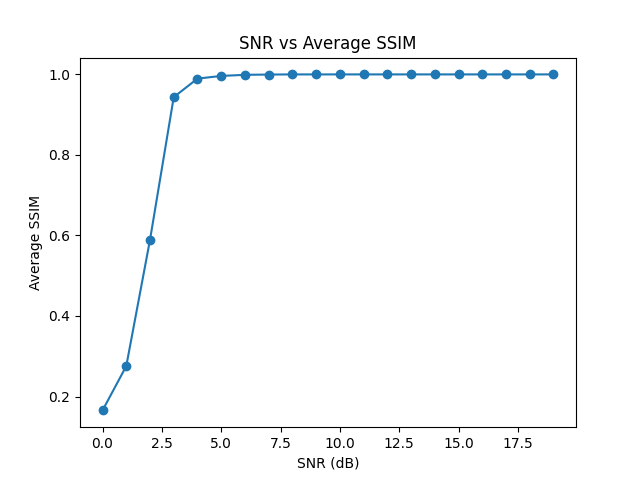
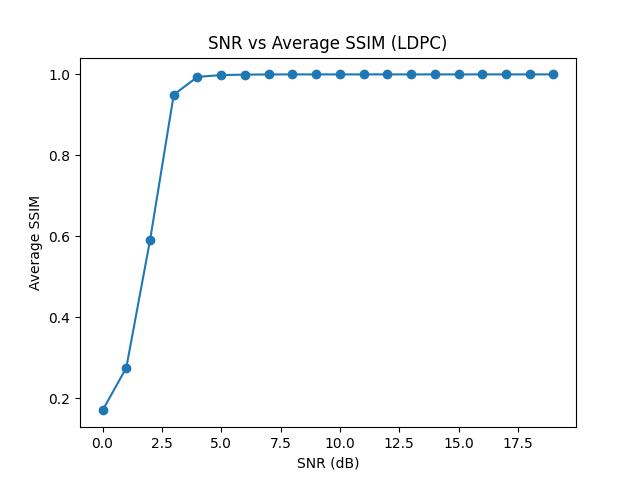
Read

diff --git a/eval.py b/eval.py
@@ -74,7 +74,7 @@ def main():
     plt.plot(x, y, marker='o')
     plt.xlabel("SNR (dB)")
     plt.ylabel("Average SSIM")
-    plt.title("SNR vs Average SSIM")
+    plt.title("SNR vs Average SSIM (LDPC)")
     plt.savefig("snr_vs_ssim_LDPC.png")
     plt.show()
     

diff --git a/README.md b/README.md
@@ -61,7 +61,7 @@ The image by LDPC .
 
 ## Result
 ![Result](./snr_vs_ssim.png)
-
+![Result](./snr_vs_ssim_LDPC.png)
 
 
 
